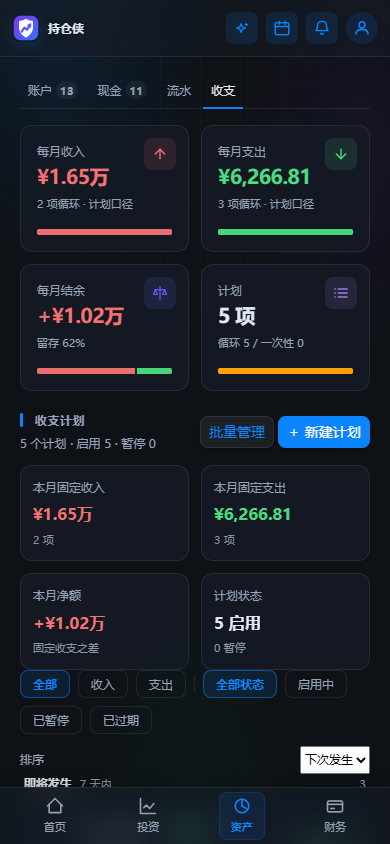
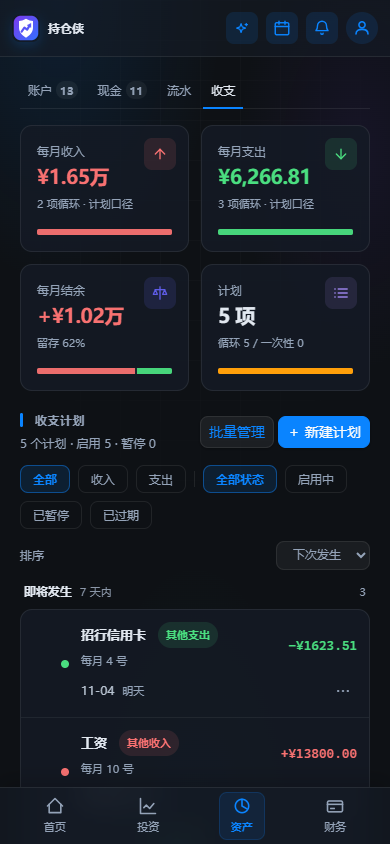
文档：记录收支计划 UI 修订与最新桌面/移动端截图
线上验收后改了小结卡、间距、排序下拉和抽屉关闭入口，方案文档需要同步说明
“为什么删/为什么复用现成组件”，截图也换成修订后的实拍，避免后续维护照旧稿改。

diff --git a/docs/收支计划改版方案.md b/docs/收支计划改版方案.md
@@ -200,3 +200,12 @@
 1. **代码回滚**：`git revert` 对应三次提交后重新 `bash scripts/deploy.sh`。旧代码不读 `deleted_at`，会把软删行重新显示出来——这是可接受的“回滚即复活”，但**不要**在线上已有大量软删数据时直接回滚到更老版本。
 2. **数据回滚**：部署前已备份线上库（见部署记录）。如需彻底回到改版前，停容器 → 用备份覆盖数据文件 → 起容器。注意这会丢掉改版后新产生的计划与流水。
 3. 只想清理软删残留：确认后 `DELETE FROM cashflow_plans WHERE deleted_at<>''`（会连带失去这些计划的撤销能力，但不会动 `cashflow_plan_done`）。
+
+### 9.5 界面修订（2026-11-03，线上验收后）
+
+- **去掉重复小结**：面板里的 `.cf-summary` 四张卡与页面上方资产 KPI 卡语义重复，删除 HTML/CSS/JS 三层，改由原有 KPI 卡承担月度收入/支出/结余；面板只保留工具条与分组列表。「已暂停」组的说明改为「不计入上方固定收支」，避免指向已删除的“小结”。
+- **间距归一**：`.cf-plan-wrap` 内部改为 flex 纵向节奏（`--sp-4`），分组标题到行 `--sp-3`，底部留 `--sp-5`；窄屏降为 `--sp-3` / `--sp-2` / `--sp-4`，不再贴边。
+- **排序下拉复用组件**：改用已有的 `.sort-select`（原生箭头 + 现成内边距/圆角/暗色底），并给该组件补 hover / focus-visible 态，和投资页排序下拉保持一套皮。
+- **关闭入口去重**：删除自定义 `.cf-drawer-close`，只保留全站统一的 `.card-close`；补齐点遮罩与 Esc 两条关闭路径（Esc 在行内编辑框里仍只取消编辑，不关抽屉）。
+
+落地截图：`docs/screenshots/cashflow-plan-impl-desktop-1280x800.png`、`cashflow-plan-impl-mobile-390x844.png`、`cashflow-plan-impl-drawer-1280x800.png`。
